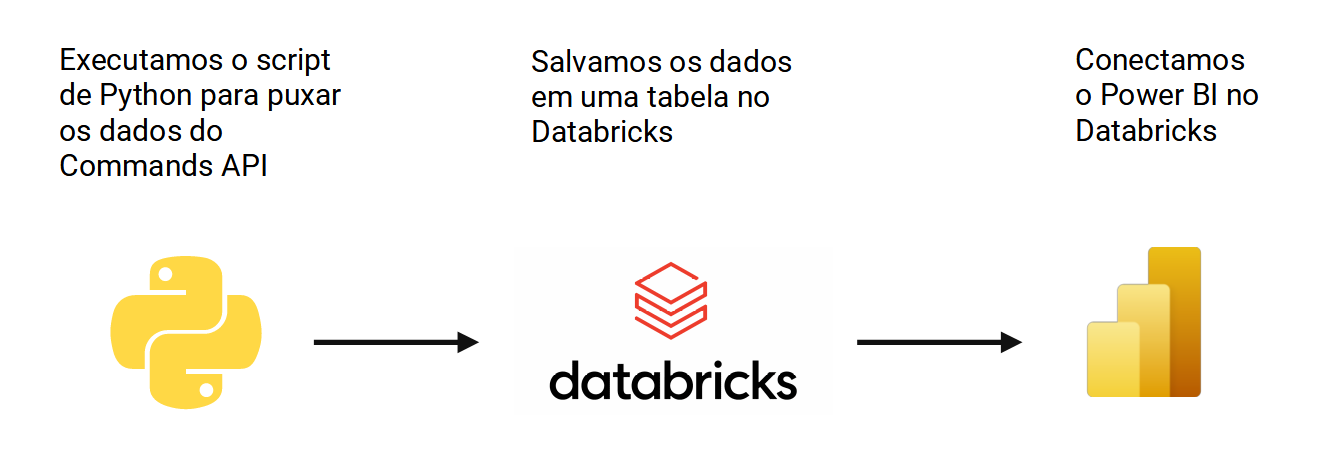
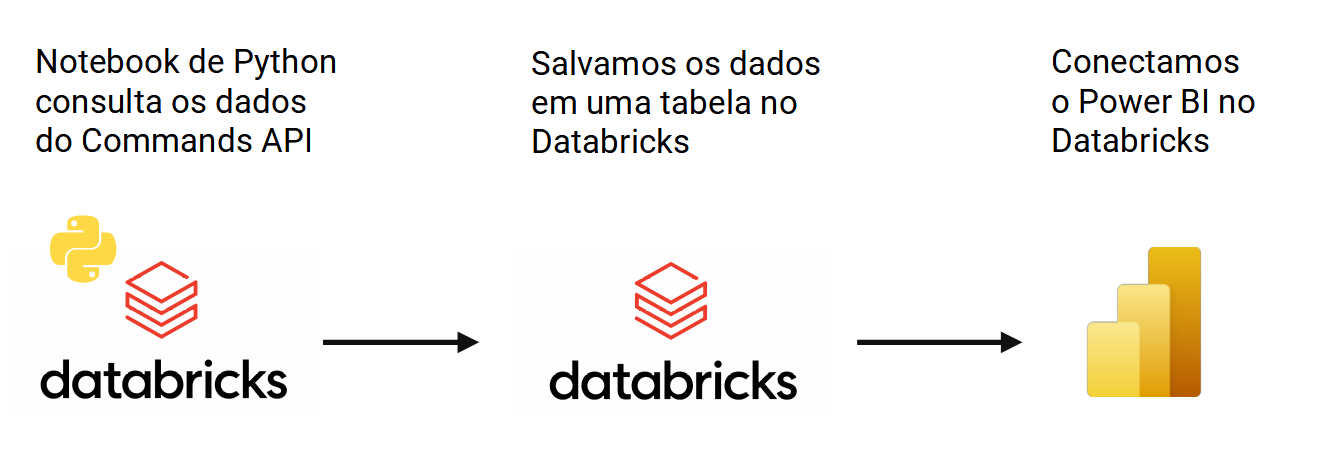
Reorder some slides, and, improve content

diff --git a/PowerBI-CommandsAPI.html b/PowerBI-CommandsAPI.html
@@ -387,17 +387,60 @@
   <p class="author">Pedro Duarte Faria</p>
 </section>
 
-<section id="objetivo" class="slide level2">
-<h2>Objetivo</h2>
-<p>Demonstrar como podemos conectar o Power BI ao Blip Commands API.</p>
-</section>
 <section id="o-que-é-o-blip-commands-api" class="slide level2">
 <h2>O que é o Blip Commands API?</h2>
-<p>É uma API do Blip que disponibiliza dados de seu contato inteligente em <strong>tempo real</strong>.</p>
+<p>É uma API do Blip que disponibiliza dados de seu contato inteligente <strong>em tempo real</strong>.</p>
 </section>
 <section id="consequência" class="slide level2">
 <h2>Consequência</h2>
-<p>Podemos utilizar o Commands API para servir aos nossos clientes os dados mais recentes. Ou seja, não precisamos <strong>esperar o dia seguinte para termos acesso aos dados do dia atual</strong>.</p>
+<p>O Databricks possui a limitação de seus dados serem em D - 1. Já o Commands API <strong>não enfrenta essa limitação.</strong></p>
+</section>
+<section id="consequência-1" class="slide level2">
+<h2>Consequência</h2>
+<p>Como resultado, com o Commands API, nós não precisamos esperar o dia seguinte para termos acesso aos dados do dia atual!!!🤯🔭</p>
+</section>
+<section id="em-resumo" class="slide level2">
+<h2>Em resumo</h2>
+<p>…qual o objetivo desta apresentação?</p>
+</section>
+<section id="em-resumo-1" class="slide level2">
+<h2>Em resumo</h2>
+<p>…qual o objetivo desta apresentação?</p>
+<p><strong>Apresentar o Commands API como uma solução de dados em tempo real mais flexível e eficiente do que os relatórios personalizados do Blip.</strong></p>
+</section>
+<section id="relatórios-personalizados-do-blip" class="slide level2">
+<h2>Relatórios personalizados do Blip</h2>
+<p>Vantagens:</p>
+<ul>
+<li>Rápido e simples de se configurar;</li>
+</ul>
+<p>Desvantagens:</p>
+<ul>
+<li>Simples até demais;</li>
+<li>Não permite customização;</li>
+</ul>
+</section>
+<section id="commands-api" class="slide level2">
+<h2>Commands API</h2>
+<ul>
+<li>Permite a construção de uma <strong>solução personalizada</strong>;</li>
+<li><strong>Experiência</strong> infinitamente melhor para o cliente;</li>
+</ul>
+<p>Podemos utilizar o programa/framework de nossa preferência:</p>
+<ul>
+<li>Power BI</li>
+<li><code>{shiny}</code> e <code>{flexdashboard}</code> (R)</li>
+<li><code>{plotly}</code> e <code>{dash}</code> (Python).</li>
+</ul>
+<!-- ## Mas como eu posso fornecer esses dados? -->
+<!-- - Você pode orientar o cliente a como utilizar o Commands API; -->
+<!-- - Um Power BI que consome os dados do Commands API; -->
+<!-- - Um JOB que envia (periodicamente) os dados mais recentes do Commands API; -->
+<!-- - Os DEVs de sua célula podem te ajudar a construir um plugin do Blip que converse com o Commands API; -->
+</section>
+<section id="um-exemplo-prático-com-power-bi" class="slide level2">
+<h2>Um exemplo prático com Power BI</h2>
+<p>Como seria exatamente o fluxo de dados com o Commands API?</p>
 </section>
 <section id="fluxo-de-dados" class="slide level2">
 <h2>Fluxo de dados</h2>
@@ -405,22 +448,29 @@
 <img data-src="Figuras/PowerPoint/fluxo-dados.png" class="r-stretch"></section>
 <section id="temos-uma-biblioteca-nova" class="slide level2">
 <h2>Temos uma biblioteca nova! 🥳</h2>
-<p>Para facilitar o acesso aos dados da Commands API, duas funções foram desenvolvidas para os APIN’s:</p>
+<p>Para facilitar o uso da Commands API, duas funções foram desenvolvidas para os APIN’s:</p>
 <ul>
 <li><code>get_event_track()</code>;</li>
 <li><code>get_attendants_report()</code>;</li>
 </ul>
 </section>
+<section id="como-posso-utilizar-essas-funções" class="slide level2">
+<h2>Como posso utilizar essas funções?</h2>
+<ol type="1">
+<li>Importe essas funções;</li>
+<li>Colete a chave de autenticação de seu bot no Blip;</li>
+</ol>
+<p>E seja feliz 😎.</p>
+</section>
 <section id="importando-as-funções" class="slide level2">
 <h2>Importando as funções</h2>
-<p>Adicione o seguinte código ao seu notebook do Databricks:</p>
+<p>Para importar essas funções, adicione o seguinte código ao seu notebook do Databricks:</p>
 <div class="sourceCode" id="cb1"><pre class="sourceCode numberSource {verbatim} number-lines code-with-copy"><code class="sourceCode"><span id="cb1-1"><a href="#cb1-1"></a>%run /Library/APICommands</span></code><button title="Copy to Clipboard" class="code-copy-button"><i class="bi"></i></button></pre></div>
-<p>Mas antes de utilizar as funções, você precisa coletar a chave de autenticação de seu bot no Blip!</p>
 </section>
 <section id="todo-acesso-precisa-ser-autenticado" class="slide level2">
 <h2>Todo acesso precisa ser autenticado!</h2>
-<p>Todo acesso à Commands API precisa de uma chave de autenticação! Você encontra essa chave de autenticação na página de seu bot no Blip Portal.</p>
-<p>Basta acessar a área de “Configurações -&gt; Informações de conexão”, e, copiar o valor do quadro “Cabeçalho de autenticação”.</p>
+<p>Você precisa da <strong>chave de autenticação de seu bot</strong> para consultar o Commands API!</p>
+<p>Acesse a área de “Configurações -&gt; Informações de conexão” na página de seu bot no Blip Portal, e, copie o valor do quadro “Cabeçalho de autenticação”.</p>
 </section>
 <section id="todo-acesso-precisa-ser-autenticado-1" class="slide level2">
 <h2>Todo acesso precisa ser autenticado!</h2>
@@ -428,7 +478,7 @@
 <img data-src="Figuras/info-conexao.png" class="r-stretch"></section>
 <section id="chave-de-autenticação" class="slide level2">
 <h2>Chave de autenticação</h2>
-<p>Toda chave de autenticação é iniciada por <code>"Key "</code>, seguido de um conjunto aleatório de caracteres. Nos próximos slides, vou me refereir a essa chave através da variável <code>botKey</code>.</p>
+<p>Toda chave de autenticação é iniciada por <code>"Key "</code>, seguido de um conjunto aleatório de caracteres. Nos próximos slides, vou me referir a essa chave através da variável <code>botKey</code>.</p>
 <div class="sourceCode cell-code" id="cb2"><pre class="sourceCode numberSource python number-lines code-with-copy"><code class="sourceCode python"><span id="cb2-1"><a href="#cb2-1"></a>botKey <span class="op">=</span> <span class="st">'Key cq936dk_hxdd00_sa...'</span></span></code><button title="Copy to Clipboard" class="code-copy-button"><i class="bi"></i></button></pre></div>
 </section>
 <section id="get_event_track" class="slide level2">
@@ -436,29 +486,49 @@
 <p>Essa função possui os seguintes argumentos:</p>
 <ul>
 <li><code>botKey</code>: a chave de autenticação;</li>
-<li><code>tracking</code>: o nome do tracking;</li>
+<li><code>tracking</code>: a <em>category</em> do tracking;</li>
 <li><code>startDate</code>: a data de início da pesquisa;</li>
 <li><code>endDate</code>: a data de fim da pesquisa;</li>
 <li><code>take</code> (<strong>opcional</strong>): quantidade máxima de resultados que você deseja trazer;</li>
-<li><code>action</code> (<strong>opcional</strong>): a action específica que você deseja pesquisar;</li>
+<li><code>action</code> (<strong>opcional</strong>): a <em>action</em> específica que você deseja pesquisar;</li>
 </ul>
 </section>
 <section id="exemplos" class="slide level2">
 <h2>Exemplos:</h2>
 <div class="cell" data-execution_count="3">
 <div class="sourceCode cell-code" id="cb3"><pre class="sourceCode numberSource python number-lines code-with-copy"><code class="sourceCode python"><span id="cb3-1"><a href="#cb3-1"></a><span class="im">from</span> datetime <span class="im">import</span> date</span>
-<span id="cb3-2"><a href="#cb3-2"></a>dia_pesquisa <span class="op">=</span> date(<span class="dv">2022</span>,<span class="dv">1</span>,<span class="dv">11</span>)</span>
+<span id="cb3-2"><a href="#cb3-2"></a>dia_pesquisa <span class="op">=</span> date(<span class="dv">2022</span>,<span class="dv">7</span>,<span class="dv">7</span>)</span>
 <span id="cb3-3"><a href="#cb3-3"></a>r <span class="op">=</span> get_event_track(</span>
-<span id="cb3-4"><a href="#cb3-4"></a>  botKey, tracking <span class="op">=</span> <span class="st">"Saudacao sodexo selecao"</span>,</span>
-<span id="cb3-5"><a href="#cb3-5"></a>  startDate <span class="op">=</span> dia_pesquisa, endDate <span class="op">=</span> dia_pesquisa</span>
-<span id="cb3-6"><a href="#cb3-6"></a>)</span>
-<span id="cb3-7"><a href="#cb3-7"></a></span>
-<span id="cb3-8"><a href="#cb3-8"></a><span class="bu">print</span>(r)</span></code><button title="Copy to Clipboard" class="code-copy-button"><i class="bi"></i></button></pre></div>
+<span id="cb3-4"><a href="#cb3-4"></a>  botKey, </span>
+<span id="cb3-5"><a href="#cb3-5"></a>  tracking <span class="op">=</span> <span class="st">"Sodexo consulta solicitacao e bloqueio selecao"</span>,</span>
+<span id="cb3-6"><a href="#cb3-6"></a>  startDate <span class="op">=</span> dia_pesquisa, endDate <span class="op">=</span> dia_pesquisa</span>
+<span id="cb3-7"><a href="#cb3-7"></a>)</span>
+<span id="cb3-8"><a href="#cb3-8"></a></span>
+<span id="cb3-9"><a href="#cb3-9"></a><span class="bu">print</span>(r)</span></code><button title="Copy to Clipboard" class="code-copy-button"><i class="bi"></i></button></pre></div>
 <div class="cell-output cell-output-stdout">
-<pre><code>                storageDate                 category action  count
-0  2022-01-11T03:00:00.000Z  Saudacao sodexo selecao   CNPJ      1</code></pre>
+<pre><code>                storageDate                                        category  \
+0  2022-07-07T03:00:00.000Z  Sodexo consulta solicitacao e bloqueio selecao   
+1  2022-07-07T03:00:00.000Z  Sodexo consulta solicitacao e bloqueio selecao   
+2  2022-07-07T03:00:00.000Z  Sodexo consulta solicitacao e bloqueio selecao   
+3  2022-07-07T03:00:00.000Z  Sodexo consulta solicitacao e bloqueio selecao   
+
+                       action  count  
+0             Bloquear cartao     20  
+1  Consultar status de cartao      4  
+2            Input inesperado      2  
+3             Solicitar 2 via      8  </code></pre>
 </div>
 </div>
+</section>
+<section id="que-tipo-de-dados-você-encontra-nessa-api" class="slide level2">
+<h2>Que tipo de dados você encontra nessa API?</h2>
+<ul>
+<li><code>/event-track</code>: registros de trackings;</li>
+<li><code>/contacts</code>: dados dos usuários;</li>
+<li><code>/analytics/reports/attendants</code>: dados dos atendentes no BlipDesk;</li>
+<li><code>/analytics/reports/tickets</code>: dados dos tickets no BlipDesk;</li>
+</ul>
+<p>… você pode conferir a lista completa na <a href="https://docs.blip.ai/?http#analytics">documentação da API</a></p>
 </section>
 <section id="construindo-uma-requisição" class="slide level2">
 <h2>Construindo uma requisição</h2>
